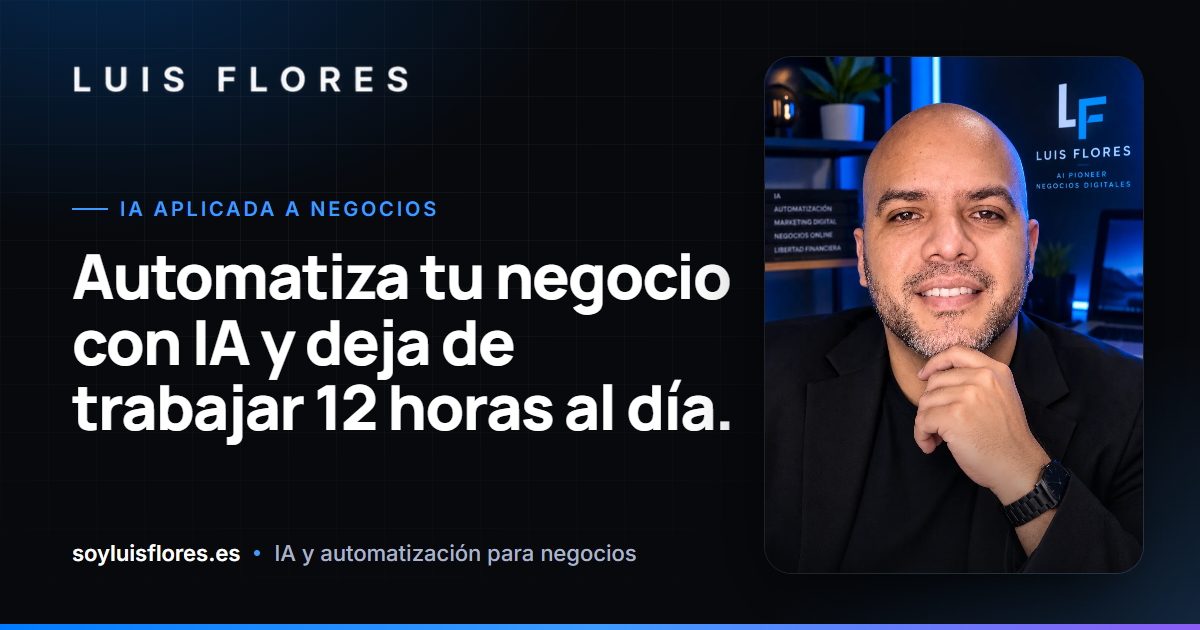
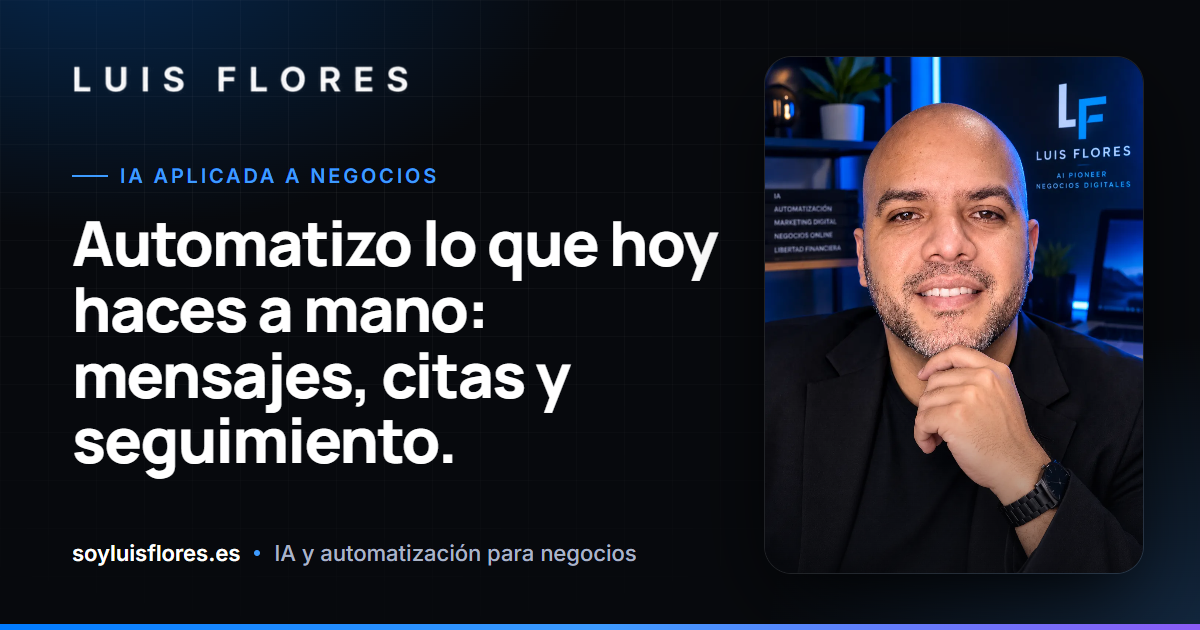
Titular de la portada sin promesas y servicios en tres frentes
El hero decía «Automatiza tu negocio con IA y deja de trabajar 12 horas
al día»: una promesa con una cifra que no se puede sostener. Ahora dice
lo que de verdad se implementa, en cuatro líneas cortas porque a 52 px
la columna solo admite unos 20 caracteres.

También: «Páginas web que venden» pasa a «que piden la cita» y «Agentes
de IA que trabajan por ti» a «que contestan y agendan».

Los nueve servicios se agrupan en captar, convertir y escalar, en la
portada y en /servicios, desde PILARES en src/data/servicios.ts. Si se
añade un servicio y se olvida asignarle frente, el build falla en vez de
dejarlo fuera sin avisar.

Changed region(s): [[0.0617, 0.2714, 0.6167, 0.7841]]

diff --git a/src/data/servicios.ts b/src/data/servicios.ts
@@ -128,6 +128,72 @@ export const servicios: Servicio[] = [
   },
 ];
 
+/**
+ * Los tres frentes en los que se agrupan los servicios (23/10/2026).
+ *
+ * Sirven para que quien llega sepa por dónde entrar sin leerse las nueve
+ * tarjetas: primero que te lleguen consultas, luego que no se enfríen y
+ * por último que el proceso aguante sin ti.
+ */
+export interface Pilar {
+  id: "captar" | "convertir" | "escalar";
+  nombre: string;
+  /** Qué se resuelve en este frente, en una frase. */
+  descripcion: string;
+  icono: "embudo" | "chat" | "flujo";
+  /** Slugs de los servicios de este frente, en el orden en que se muestran. */
+  slugs: string[];
+}
+
+export const PILARES: Pilar[] = [
+  {
+    id: "captar",
+    nombre: "Captar",
+    descripcion: "Que te encuentren y te escriban.",
+    icono: "embudo",
+    slugs: ["webs-ia", "trafico-de-pago", "funnels-conversion"],
+  },
+  {
+    id: "convertir",
+    nombre: "Convertir",
+    descripcion: "Que quien escribe no se quede sin respuesta ni sin seguimiento.",
+    icono: "chat",
+    slugs: ["agentes-ia", "crm-seguimiento-leads", "email-marketing"],
+  },
+  {
+    id: "escalar",
+    nombre: "Escalar",
+    descripcion: "Que el proceso aguante más trabajo sin depender de ti.",
+    icono: "flujo",
+    slugs: ["automatizacion", "paneles-de-metricas", "consultoria-ia"],
+  },
+];
+
+/** Los servicios de un frente, en el orden declarado en PILARES. */
+export function serviciosDe(pilar: Pilar): Servicio[] {
+  return pilar.slugs.map((slug) => {
+    const servicio = servicios.find((s) => s.slug === slug);
+    if (!servicio) {
+      throw new Error(
+        `PILARES apunta al servicio «${slug}», que no existe en servicios (src/data/servicios.ts).`,
+      );
+    }
+    return servicio;
+  });
+}
+
+// Si se añade un servicio y se olvida asignarlo a un frente, el build falla
+// aquí en vez de dejarlo fuera de la home y de /servicios sin avisar.
+{
+  const asignados = PILARES.flatMap((p) => p.slugs);
+  const huerfanos = servicios.filter((s) => !asignados.includes(s.slug));
+  if (huerfanos.length > 0) {
+    throw new Error(
+      `Servicios sin frente asignado en PILARES: ${huerfanos.map((s) => s.slug).join(", ")} (src/data/servicios.ts).`,
+    );
+  }
+}
+
 export const SITIO = {
   url: "https://soyluisflores.es",
   nombre: "Luis Flores",

diff --git a/src/styles/global.css b/src/styles/global.css
@@ -1301,6 +1301,41 @@ main > .section.banda + .section.banda {
   background: color-mix(in srgb, var(--acento) 10%, transparent);
   color: var(--acento-texto);
 }
+
+/* Frentes de servicios (23/10/2026): cabecera de cada grupo en la home y en
+   /servicios, para que se lea el orden captar → convertir → escalar. */
+.pilar-cabecera {
+  display: flex;
+  align-items: center;
+  flex-wrap: wrap;
+  gap: 0.5rem 0.875rem;
+  padding-bottom: 0.875rem;
+  border-bottom: 1px solid var(--color-line);
+}
+.pilar-icono {
+  display: inline-grid;
+  place-items: center;
+  width: 2.5rem;
+  height: 2.5rem;
+  flex-shrink: 0;
+  border: 1px solid var(--color-line);
+  border-radius: 12px;
+  background: color-mix(in srgb, var(--color-electric) 10%, transparent);
+  color: var(--color-electric-soft);
+}
+.pilar-nombre {
+  margin: 0;
+  font-family: var(--font-display);
+  font-size: 1.375rem;
+  font-weight: var(--font-weight-bold);
+  letter-spacing: -0.01em;
+}
+.pilar-texto {
+  flex: 1 1 18rem;
+  margin: 0;
+  color: var(--color-muted);
+  font-size: 0.9375rem;
+}
 .anillo-degradado {
   display: grid;
   place-items: center;
